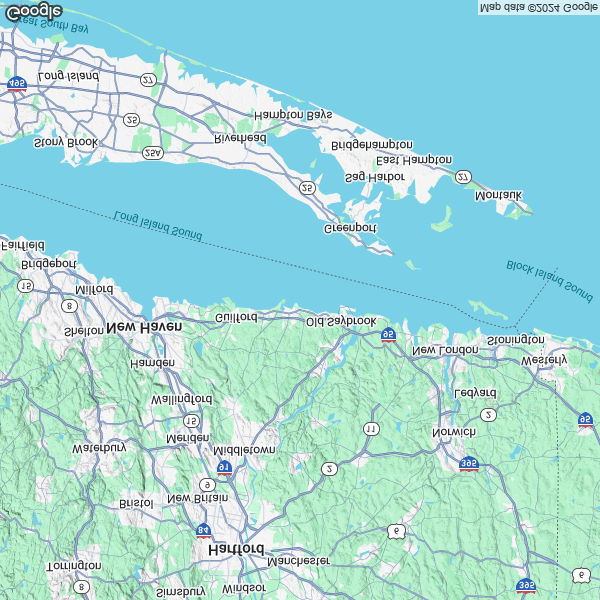
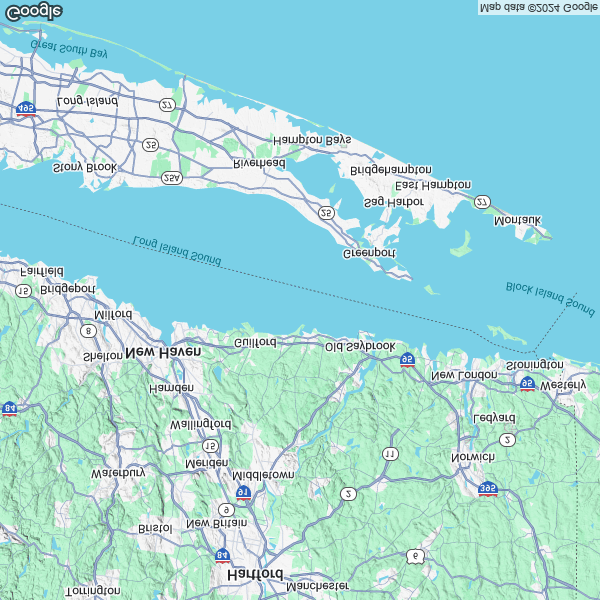
Add maps and fix observational rain

diff --git a/GetObsRain.py b/GetObsRain.py
@@ -77,6 +77,8 @@ class GetObsRain:
             stationId = stationDict["id"]
             stationName = stationDict["name"]
             url = "https://waterdata.usgs.gov/nwis/dv?cb_00045=on&format=html&site_no=" + stationId + "&legacy=&referred_module=sw&period=&begin_date=" + startDate + "&end_date=" + endDate
+            print(url)
+#             quit()
         #     sensorURL = 'https://ioos-dif-sos-prod.co-ops-aws-east1.net/ioos-dif-sos/SOS?service=SOS&request=DescribeSensor&version=1.0.0&outputFormat=text/xml;subtype="sensorML/1.0.1/profiles/ioos_sos/1.0"&procedure=urn:ioos:station:NOAA.NOS.CO-OPS:8454000'
             filename = "raintest"
         #     sensorFilename = stationDict["id"] + "_sensor"
@@ -114,15 +116,26 @@ class GetObsRain:
                             if("COUNT" in line):
                                 data = line.split("<th>")
                                 for daysData in data[3::]:
-                                    deltaDaysForMonths.append(int(daysData[0:daysData.find('<')]))
+                                    if("&nbsp;" in daysData):
+                                        deltaDaysForMonths.append(0)
+                                    else:
+                                        deltaDaysForMonths.append(int(daysData[0:daysData.find('<')]))
                             if("MAX" in line):
                                 data = line.split("<th>")
+#                                 print(data)
                                 for maxData in data[2::]:
-                                    maxrowRains.append(float(maxData[0:4]))
+                                    if("&nbsp;" in maxData):
+                                        maxrowRains.append(0.0)
+                                    else:
+                                        maxrowRains.append(float(maxData[0:4]))
                             if("MIN" in line):
                                 data = line.split("<th>")
                                 for minData in data[2::]:
-                                    minrowRains.append(float(minData[0:4]))
+#                                     print(minData)
+                                    if("&nbsp;" in minData):
+                                        minrowRains.append(0.0)
+                                    else:
+                                        minrowRains.append(float(minData[0:4]))
                             if('<tr align="center">' in line):
                                 dayStr = line.split("<th>")[1]
                                 day = int(dayStr[0:dayStr.find('<')])
@@ -140,6 +153,8 @@ class GetObsRain:
 #                                         print("RAIN", rain[17:rain.find("<")])
 #                                         Convert from inches per day to mm per day
                                         rowRains[index].append(float(rain[17:rain.find("<")]) * 25.4)
+#                                         print(rowRains[index][-1])
+#                                 print("len rowRains", len(rowRains[0]))
 #                                     print(rowRains)
 #                                     if(index == 2):
 #                                         quit()
@@ -150,6 +165,8 @@ class GetObsRain:
                 for monthIndex, month in enumerate(months):
                     deltaDaysForMonth = deltaDaysForMonths[monthIndex]
 #                     print(deltaDaysForMonth)
+#                     print("rowRains length for ", month, len(rowRains[monthIndex]))
+#                     print(deltaDaysForMonth)
                     startDay = None
                     endDay = None
                     foundStart = False
@@ -157,6 +174,7 @@ class GetObsRain:
                     rowRainsLength = len(rowRains[monthIndex])
 #                     quit()
                     for index, rain in enumerate(rowRains[monthIndex]):
+#                         print(rowRains[monthIndex])
                         if(rain == -1):
                             if(foundStart):
                                 foundStart = False
@@ -175,15 +193,21 @@ class GetObsRain:
 #                     print("rowRains for month, deltaDaysForMonth", month, startDay, endDay)
                     dayIndex = startDay
 #                     print(dayIndex)
+#                     print(month)
+#                     print("rowRains len for month", len(rowRains[monthIndex]))
+#                     print(dayIndex)
 #                     quit()
 
 #                     TODO: Rework data so obs rain graph looks like a triangle for a day, with area equal to the daily accumulation.
 #                     Basically, there should be an entry for each hour in the day, with the peak being at noon.
 #                     The integral of the total day's worth of rain data (shaped like a triangle) will be equal to the total accumulation for the day
-                    for index, rowDay in enumerate(rowDays):
+#                     print("rowDays len", len(rowDays))
+                    for index in range(deltaDaysForMonth):
+#                         print("monthIndex, dayIndex", monthIndex, dayIndex)
                         rainAccumulation = rowRains[monthIndex][dayIndex - 1]
                         maxRainRate = (rainAccumulation * 2) / 24
                         rainRates = np.linspace(0, maxRainRate, num=12)
+                        rowDay = rowDays[dayIndex - 1]
                         for hour in range(0, 24):
                             dateStr = (month[0] + month[1] + str(rowDay).zfill(2)) + str(hour)
                             date = datetime.strptime(dateStr, "%b%Y%d%H").replace(tzinfo=timezone.utc)

diff --git a/generateGraphs.py b/generateGraphs.py
@@ -51,7 +51,14 @@ NEW_LONDON_COAST_GUARD_OUTLINE_MAP = "NewLondonCoastGuardOutline.png"
 NEW_LONDON_COAST_GUARD_MAP = "NewLondonCoastGuard.png"
 NEW_LONDON_COAST_GUARD_AXIS = [-72.13649841308596, -72.03350158691408, 41.383650725307994, 41.306326318981746]
 LONG_ISLAND_SOUND_EAST_OUTLINE_MAP = "LongIslandSoundEastOutline.png"
-LONG_ISLAND_SOUND_EAST_AXIS = [-72.323974609375, -70.676025390625, 42.11417769664206, 40.87994188758605]
+LONG_ISLAND_SOUND_EAST_MAP = "LongIslandSoundEast.png"
+LONG_ISLAND_SOUND_EAST_AXIS = [-73.37397460937501, -71.72602539062501, 41.8170316891045, 40.577095781586486]
+LONG_ISLAND_MAP = "LongIsland.png"
+LONG_ISLAND_OUTLINE_MAP = "LongIslandOutline.png"
+LONG_ISLAND_AXIS = [-74.34794921875002, -71.05205078125002, 42.23196681807541, 39.74456845975795]
+BLOCK_ISLAND_SOUND_MAP = "BlockIslandSound.png"
+BLOCK_ISLAND_SOUND_OUTLINE_MAP = "BlockIslandSoundOutline.png"
+BLOCK_ISLAND_SOUND_AXIS = [-72.52397460937502, -70.87602539062502, 42.11417769664206, 40.87994188758605]
 
 def main():
     p = argparse.ArgumentParser(description="Make a request to generate graphs")
@@ -193,7 +200,22 @@ def main():
         backgroundAxis = NEW_LONDON_AXIS
     elif(backgroundChoice == "LONG_ISLAND_SOUND_EAST_OUTLINE"):
         backgroundMap = LONG_ISLAND_SOUND_EAST_OUTLINE_MAP     
-        backgroundAxis = LONG_ISLAND_SOUND_EAST_AXIS   
+        backgroundAxis = LONG_ISLAND_SOUND_EAST_AXIS
+    elif(backgroundChoice == "LONG_ISLAND_SOUND_EAST"):
+        backgroundMap = LONG_ISLAND_SOUND_EAST_MAP     
+        backgroundAxis = LONG_ISLAND_SOUND_EAST_AXIS  
+    elif(backgroundChoice == "LONG_ISLAND"):
+        backgroundMap = LONG_ISLAND_MAP     
+        backgroundAxis = LONG_ISLAND_AXIS  
+    elif(backgroundChoice == "LONG_ISLAND_OUTLINE"):
+        backgroundMap = LONG_ISLAND_OUTLINE_MAP     
+        backgroundAxis = LONG_ISLAND_AXIS 
+    elif(backgroundChoice == "BLOCK_ISLAND_SOUND"):
+        backgroundMap = BLOCK_ISLAND_SOUND_MAP     
+        backgroundAxis = BLOCK_ISLAND_SOUND_AXIS  
+    elif(backgroundChoice == "BLOCK_ISLAND_SOUND_OUTLINE"):
+        backgroundMap = BLOCK_ISLAND_SOUND_OUTLINE_MAP     
+        backgroundAxis = BLOCK_ISLAND_SOUND_AXIS 
         
     print("args.adcircExists", args.adcircExists, flush=True)
     if(args.adcircExists):
@@ -212,8 +234,8 @@ def main():
         GFS_RAIN_FILE = args.rain
         GFS_RAIN_DATA_FILE = wind_temp_directory + "gfs_rain_data_file" + ".json"
         (rainStartDateObject, rainEndDateObject) = GFSRainReader(GFS_RAIN_FILE=GFS_RAIN_FILE, STATIONS_FILE=STATIONS_FILE, GFS_RAIN_DATA_FILE=GFS_RAIN_DATA_FILE, BACKGROUND_AXIS=backgroundAxis).generateRainDataForStations()
-#         rainStartDateObject = datetime.datetime(year=2023, month=4, day=15)
-#         rainEndDateObject = datetime.datetime(year=2023, month=7, day=18)
+#         rainStartDateObject = datetime.datetime(year=2024, month=7, day=25)
+#         rainEndDateObject = datetime.datetime(year=2024, month=10, day=2)
         dataToGraph["RAIN"] = GFS_RAIN_DATA_FILE
     print("args.postExists", args.postExists, flush=True)
     if(args.postExists):

diff --git a/MapGenerator.py b/MapGenerator.py
@@ -45,10 +45,10 @@ worldPixelsHeight = 256
 worldPixelsWidth = 256
 # https://groups.google.com/g/google-maps-js-api-v3/c/hDRO4oHVSeM/m/osOYQYXg2oUJ?pli=1
 # metersPerPixel = 156543.03392 * math.cos(centerLatitude * math.pi / 180) / math.pow(2, zoom)
-minLatitude = 41.3
-maxLatitude = 41.4
-minLongitude = -72.2
-maxLongitude = -72.0
+minLatitude = 40.9
+maxLatitude = 41.5
+minLongitude = -73.2
+maxLongitude = -71.9
 
 centerLatitude = (minLatitude + maxLatitude) / 2
 centerLongitude = (minLongitude + maxLongitude) / 2
@@ -68,7 +68,7 @@ lngZoom = findZoom(deltaPixelsWidth, worldPixelsWidth, lngFraction)
 print("zoom", latZoom, lngZoom)
 
 zoom = min(latZoom, lngZoom, ZOOM_MAX)
-url = "https://maps.googleapis.com/maps/api/staticmap?center=" + str(centerLatitude) + "," + str(centerLongitude) + "&zoom=" + str(zoom) + "&scale=1&size=" + str(deltaPixelsWidth) + "x" + str(deltaPixelsHeight) + "&maptype=satellite&format=png&visual_refresh=true&key=AIzaSyBt_MCVG-uJti3DYrnCE1ElGkA8VBIl1so"
+url = "https://maps.googleapis.com/maps/api/staticmap?center=" + str(centerLatitude) + "," + str(centerLongitude) + "&zoom=" + str(zoom) + "&scale=1&size=" + str(deltaPixelsWidth) + "x" + str(deltaPixelsHeight) + "&maptype=terrain&format=png&visual_refresh=true&key=AIzaSyBt_MCVG-uJti3DYrnCE1ElGkA8VBIl1so"
 # satellite or terrain
 # url = "https://maps.googleapis.com/maps/api/staticmap?center=" + str(centerLatitude) + "," + str(centerLongitude) + "&zoom=" + str(zoom) + "&scale=1&size=" + str(deltaPixelsWidth) + "x" + str(deltaPixelsHeight) + "&maptype=satellite&format=png&visual_refresh=true&key=AIzaSyBt_MCVG-uJti3DYrnCE1ElGkA8VBIl1so"
 urlretrieve(url, "satallite.png")

diff --git a/Grapher.py b/Grapher.py
@@ -809,9 +809,11 @@ class Grapher:
             gc.collect()
         if(len(self.mapRainTimes) > 0):
             vmin = 0
-#             vmax = math.ceil(self.maxRain)
+            vmax = math.ceil(self.maxRain)
             vmax = 25
-            vmaxAccumulation = 500
+            vmax = 5
+#             vmaxAccumulation = 500
+            vmaxAccumulation = 10
             levels = 100
             levelBoundaries = np.linspace(vmin, vmax, levels + 1)
             levelBoundariesAccumulation = np.linspace(vmin, vmaxAccumulation, levels + 1)
